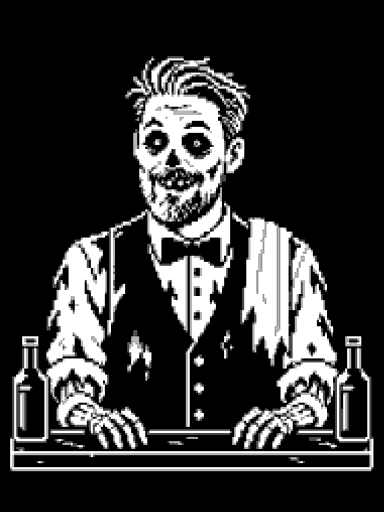
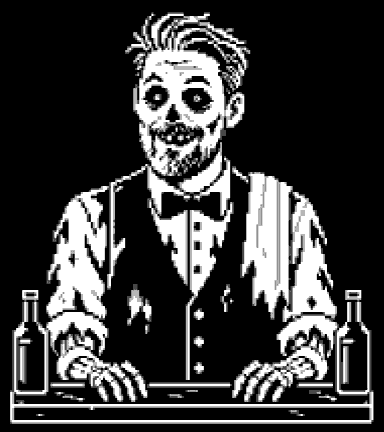
Cocktail Creepypastas: bubble on his head, bigger text, centred buttons
- Bartender frames trimmed of the empty black above his head (same rows for
  all 20, so he stays registered); the art script does this now.
- He and his bubble sit together above the replies, the bubble right on his
  head; he's sized to the room the bubble leaves (measured, since every line
  is a different length).
- Bubble text 19-24px with the screen; reply buttons centred, 18-21px, 52px
  tall. The sandbox reset button only shows on the logo screen so it can't
  cover a reply.

Changed region(s): [[0.0, 0.0301, 1.0, 0.9931], [0.3125, 0.6319, 0.4062, 0.7824]]

diff --git a/src/components/popup/templates/CreepypastasTemplate.tsx b/src/components/popup/templates/CreepypastasTemplate.tsx
@@ -1,6 +1,6 @@
 "use client";
 
-import { useCallback, useEffect, useRef, useState, type FormEvent } from "react";
+import { useCallback, useEffect, useLayoutEffect, useRef, useState, type FormEvent } from "react";
 import type { PopupCocktail, PopupTemplateProps } from "@/lib/popup/types";
 import { REPLIES, say, type Moment } from "../creepypastas/hostDialogue";
 import {
@@ -23,7 +23,7 @@ import {
   type TaleCard,
   type TimeId,
 } from "../creepypastas/tales";
-import { ALL_FRAMES, Bartender, Choice, LOGO_SRC, SpeechBubble, voiceFont, type Pose } from "../creepypastas/ui";
+import { ALL_FRAMES, Bartender, BARTENDER_ASPECT, Choice, LOGO_SRC, SpeechBubble, voiceFont, type Pose } from "../creepypastas/ui";
 
 /**
  * COMMON GOOD PRESENTS: COCKTAIL CREEPYPASTAS
@@ -75,6 +75,29 @@ export default function CreepypastasTemplate({ menu, cocktails, isSandbox }: Pop
   const [writingLine, setWritingLine] = useState("");
   const [recipeLine, setRecipeLine] = useState("");
   const [reading, setReading] = useState<{ card: TaleCard; startAt: number } | null>(null);
+
+  // The bubble sits right on his head, so he's sized to whatever room the
+  // bubble leaves: as big as fits, never wider than the screen. Measured, not
+  // left to CSS, because the bubble's height changes with every line.
+  const stage = useRef<HTMLDivElement>(null);
+  const bubble = useRef<HTMLDivElement>(null);
+  const [spriteHeight, setSpriteHeight] = useState(280);
+  useLayoutEffect(() => {
+    const st = stage.current;
+    const bu = bubble.current;
+    if (!st || !bu) return;
+    const fit = () => {
+      const room = st.clientHeight - bu.offsetHeight;
+      const widest = (st.clientWidth - 24) / BARTENDER_ASPECT;
+      setSpriteHeight(Math.max(90, Math.floor(Math.min(room, widest, 520))));
+    };
+    fit();
+    const ro = new ResizeObserver(fit);
+    ro.observe(st);
+    ro.observe(bu);
+    return () => ro.disconnect();
+    // The stage only exists while the bar is showing; re-attach when it returns.
+  }, [phase]);
 
   // This visit's story choices. Refs: they steer picks, not rendering.
   const time = useRef<TimeId>("five_to_ten");
@@ -441,16 +464,18 @@ export default function CreepypastasTemplate({ menu, cocktails, isSandbox }: Pop
           className={`h-full flex flex-col ${phase === "wavy" ? "creepy-wavy" : ""}`}
           aria-hidden={phase === "reader"}
         >
-          <div className="shrink-0 px-4 pt-4 pb-4 max-h-[46%] overflow-y-auto">
-            {phase === "writing" ? (
-              <SpeechBubble onNext={showRecipes}>{writingLine}</SpeechBubble>
-            ) : current ? (
-              <SpeechBubble onNext={lastStep ? undefined : () => setStep((s) => s + 1)}>{current}</SpeechBubble>
-            ) : null}
-          </div>
-
-          <div className="flex-1 min-h-[96px] pt-1 px-6">
-            <Bartender pose={pose} />
+          {/* He and his bubble sit together just above the replies. */}
+          <div ref={stage} className="flex-1 min-h-0 flex flex-col justify-end">
+            <div ref={bubble} className="shrink-0 px-4 pt-3 pb-[18px] max-h-[60%] overflow-y-auto">
+              {phase === "writing" ? (
+                <SpeechBubble onNext={showRecipes}>{writingLine}</SpeechBubble>
+              ) : current ? (
+                <SpeechBubble onNext={lastStep ? undefined : () => setStep((s) => s + 1)}>{current}</SpeechBubble>
+              ) : null}
+            </div>
+            <div className="shrink-0">
+              <Bartender pose={pose} height={spriteHeight} />
+            </div>
           </div>
 
           <div className="shrink-0 px-4 pb-4 pt-3 max-h-[46%] overflow-y-auto flex flex-col gap-2">
@@ -485,7 +510,8 @@ export default function CreepypastasTemplate({ menu, cocktails, isSandbox }: Pop
         />
       )}
 
-      {isSandbox && (
+      {/* Only on the logo screen, where it can't cover a reply. Reloading returns here. */}
+      {isSandbox && phase === "logo" && (
         <button
           type="button"
           onClick={() => {
@@ -535,7 +561,7 @@ function Logo({ onEnter }: { onEnter: () => void }) {
         </h1>
       )}
       <div className="mt-12 w-full max-w-[300px]">
-        <Choice center onClick={onEnter}>
+        <Choice onClick={onEnter}>
           {REPLIES.enter}
         </Choice>
       </div>

diff --git a/src/components/popup/creepypastas/ui.tsx b/src/components/popup/creepypastas/ui.tsx
@@ -113,11 +113,17 @@ function StandIn({ pose, frame }: { pose: Pose; frame: number }) {
   );
 }
 
-export function Bartender({ pose }: { pose: Pose }) {
+/** Frame width ÷ height, from scripts/creepypastas-art.py (384 × 432). */
+export const BARTENDER_ASPECT = 384 / 432;
+
+export function Bartender({ pose, height }: { pose: Pose; height: number }) {
   const frames = FRAMES[pose]?.length ? FRAMES[pose]! : FRAMES.idle ?? [];
   const frame = useFrame(pose, frames.length || (pose === "idle" ? 1 : 3));
   return (
-    <div className="h-full w-full flex items-end justify-center" style={{ imageRendering: "pixelated" }}>
+    <div
+      className="w-full flex items-end justify-center"
+      style={{ height, imageRendering: "pixelated" }}
+    >
       {frames.length ? (
         // eslint-disable-next-line @next/next/no-img-element -- pixel art at whole-number scale; the optimizer would smooth it
         <img
@@ -141,7 +147,7 @@ export function SpeechBubble({ children, onNext }: { children: ReactNode; onNext
     <div className="relative">
       <div
         aria-live="polite"
-        className={`${voiceFont.className} relative bg-black border-[3px] border-white rounded-[14px] px-4 py-3.5 text-[18px] leading-[1.45] text-white`}
+        className={`${voiceFont.className} relative bg-black border-[3px] border-white rounded-[14px] px-4 py-3.5 text-[clamp(19px,5.6vw,24px)] leading-[1.35] text-white`}
       >
         {children}
         {onNext && (
@@ -165,38 +171,33 @@ export function SpeechBubble({ children, onNext }: { children: ReactNode; onNext
 }
 
 /**
- * A reply the guest can tap. Real buttons, at least 48px tall, with a pointer
- * on keyboard focus — and on hover only where there's a mouse, so a tapped
- * button on a phone doesn't stay lit.
+ * A reply the guest can tap: a real button, centred, at least 52px tall. It
+ * inverts on keyboard focus — and on hover only where there's a mouse, so a
+ * tapped button on a phone doesn't stay lit.
  */
 export function Choice({
   children,
   onClick,
   quiet = false,
   disabled = false,
-  center = false,
 }: {
   children: ReactNode;
   onClick: () => void;
   quiet?: boolean;
   disabled?: boolean;
-  center?: boolean;
 }) {
   return (
     <button
       type="button"
       onClick={onClick}
       disabled={disabled}
-      className={`${voiceFont.className} group w-full min-h-[48px] flex items-center gap-2 ${center ? "justify-center text-center" : "text-left"} px-3 py-2 text-[17px] leading-snug rounded-[6px] border-2 transition-colors
+      className={`${voiceFont.className} w-full min-h-[52px] flex items-center justify-center text-center px-3 py-2 text-[clamp(18px,5vw,21px)] leading-snug rounded-[6px] border-2 transition-colors
         focus:outline-none focus-visible:bg-white focus-visible:text-black focus-visible:border-white
         [@media(hover:hover)]:hover:bg-white [@media(hover:hover)]:hover:text-black [@media(hover:hover)]:hover:border-white
         disabled:opacity-40 disabled:pointer-events-none
         ${quiet ? "border-white/30 text-white/75" : "border-white text-white"}`}
     >
-      <span aria-hidden className="w-3 shrink-0 opacity-0 [@media(hover:hover)]:group-hover:opacity-100 group-focus-visible:opacity-100">
-        ▸
-      </span>
-      <span>{children}</span>
+      {children}
     </button>
   );
 }

diff --git a/scripts/creepypastas-art.py b/scripts/creepypastas-art.py
@@ -9,7 +9,7 @@ The owner's ChatGPT sheets are white pixel art on pure black, with bright green
                       2 x 2 each, frames left to right then top to bottom
 
 The green bands are found by scanning for them, each cell is cut just inside
-them, any green fringe is blacked out, and frames are shrunk to 384x512 with
+them, any green fringe is blacked out, and frames are trimmed above his head and shrunk to 384x432 with
 8 grey levels (crisp and ~15 KB each). Every frame keeps its full cell, so the
 counter and his head stay where ChatGPT put them — measured identical across
 all 20 frames of the first set.
@@ -24,6 +24,12 @@ from PIL import Image
 
 SRC = sys.argv[1] if len(sys.argv) > 1 else "."
 OUT = os.path.join("public", "popup", "creepypastas")
+# Rows of each 1024-tall frame to keep: trims the empty black above his head
+# (content starts at row ~104 in every frame) so the speech bubble can sit
+# right on top of him. The same rows for every frame keeps him registered.
+KEEP_ROWS = (88, 952)
+FRAME_SIZE = (384, 432)
+
 POSES = {"2B-idle": "idle", "2C-talking": "talking", "2D-greeting": "greeting",
          "2E-thinking": "thinking", "2F-writing": "writing"}
 
@@ -70,7 +76,8 @@ for sheet, pose in POSES.items():
     frames = cells(os.path.join(SRC, sheet + ".png"))
     assert len(frames) == 4, f"{sheet}: expected 4 frames, found {len(frames)}"
     for i, f in enumerate(frames):
-        save(clean(f), os.path.join(OUT, "bartender", f"{pose}-{i + 1}.png"), (384, 512))
+        assert f.shape[0] >= KEEP_ROWS[1], f"{sheet}: frame shorter than expected"
+        save(clean(f[KEEP_ROWS[0]:KEEP_ROWS[1]]), os.path.join(OUT, "bartender", f"{pose}-{i + 1}.png"), FRAME_SIZE)
 
 logos = cells(os.path.join(SRC, "1-logo.png"))
 assert len(logos) == 2, f"logo: expected 2 cells, found {len(logos)}"
